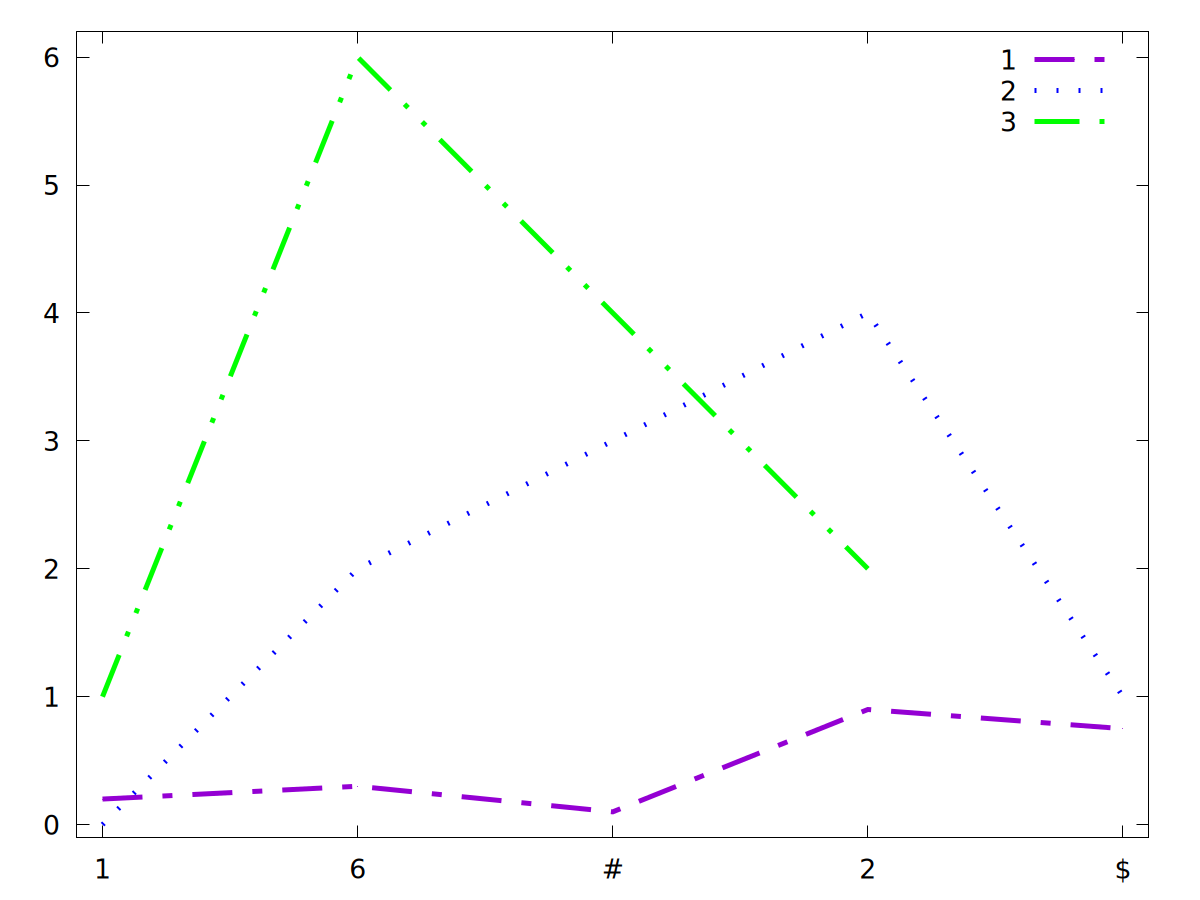
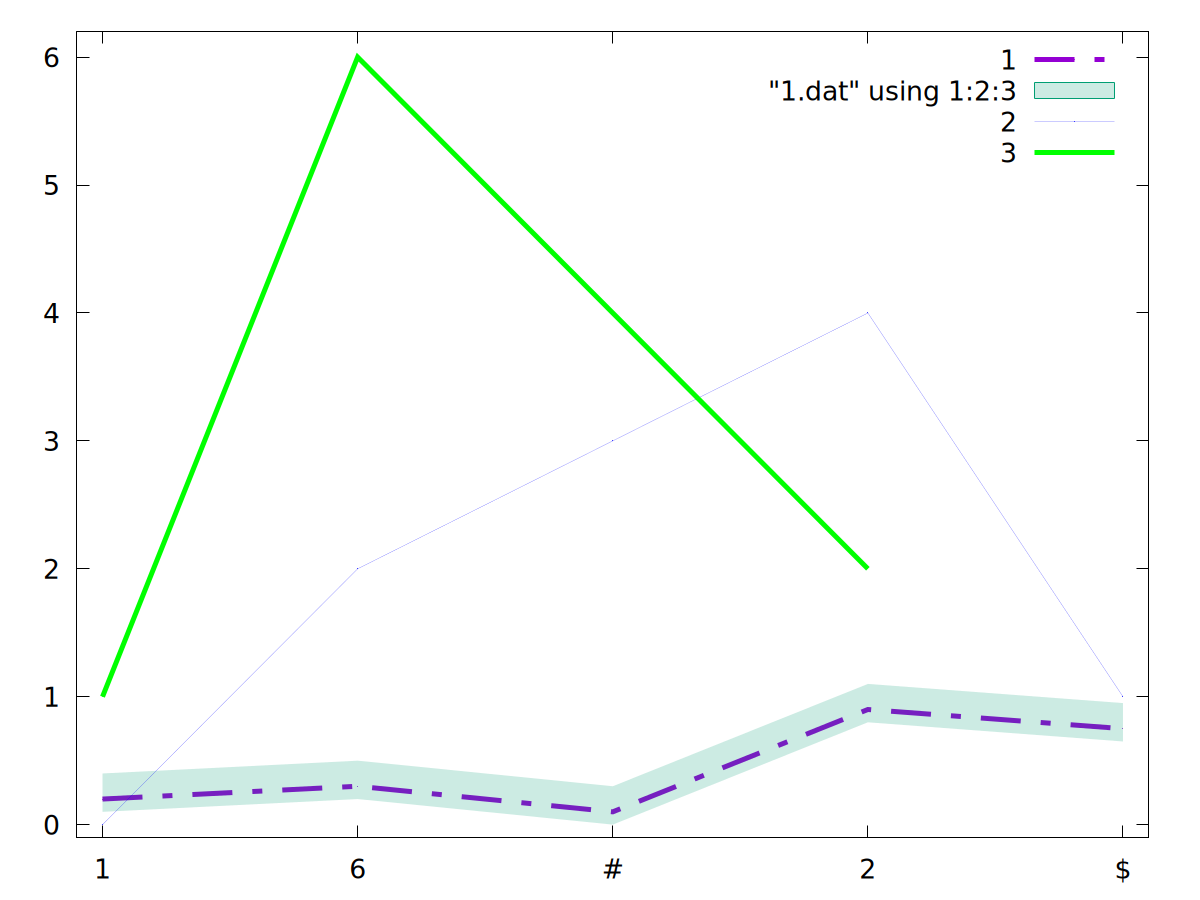
Minor Correction

diff --git a/src/plotter.hpp b/src/plotter.hpp
@@ -809,7 +809,7 @@ public:
         if (color == "auto")
             fprintf(gnuplotPipe, ", \"%s\" using 1:2:3 with filledcurves fill transparent solid %f", filename.c_str(), alpha);
         else
-            fprintf(gnuplotPipe, ", \"%s\" using 1:2:3 with filledcurves linecolor '%s' fill transparent solid %d", filename.c_str(), color, alpha);
+            fprintf(gnuplotPipe, ", \"%s\" using 1:2:3 with filledcurves linecolor '%s' fill transparent solid %f", filename.c_str(), color, alpha);
 
         cnt_files++;
     }
@@ -834,7 +834,7 @@ public:
         if (color == "auto")
             fprintf(gnuplotPipe, ", \"%s\" using 1:2:3 with filledcurves fill transparent solid %f", filename.c_str(), alpha);
         else
-            fprintf(gnuplotPipe, ", \"%s\" using 1:2:3 with filledcurves linecolor '%s' fill transparent solid %d", filename.c_str(), color, alpha);
+            fprintf(gnuplotPipe, ", \"%s\" using 1:2:3 with filledcurves linecolor '%s' fill transparent solid %f", filename.c_str(), color, alpha);
 
         cnt_files++;
     }
